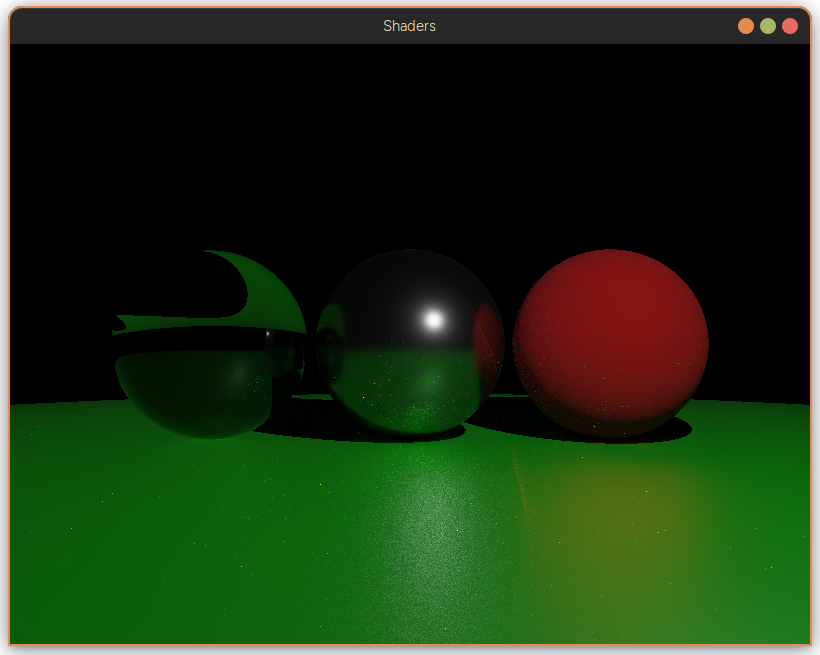
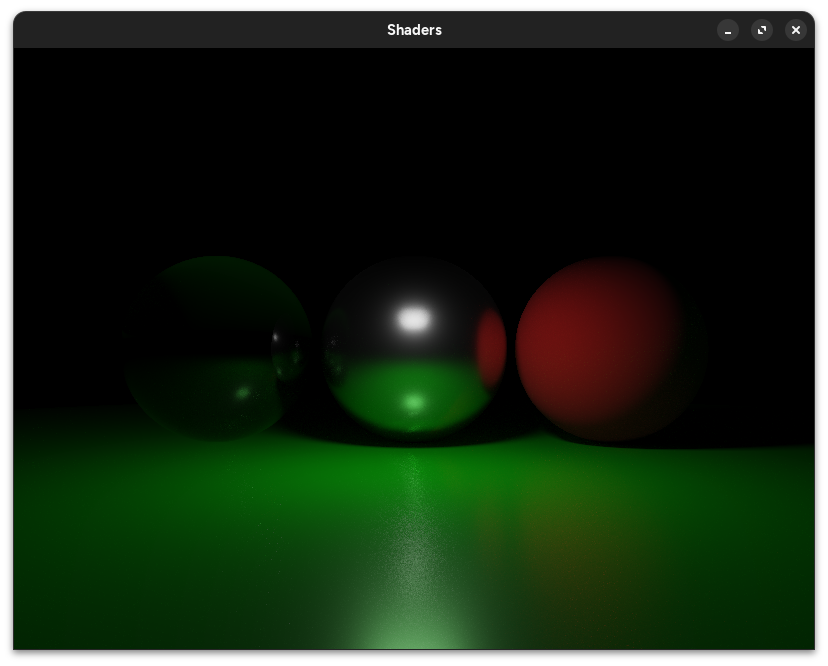
updated README

diff --git a/README.md b/README.md
@@ -1,8 +1,9 @@
 # Helios
 A GPU-accelerated path tracer built in C++ using OpenGL compute shaders and GLSL for rendering, with ImGui for live scene/material editing.
 
-![Three-sphere scene: glass, metal, and diffuse materials](assets/three.png)
 ![Standard Cornell box](assets/cornell.png)
+![Three-sphere scene: glass, metal, and diffuse materials](assets/three.png)
+![obj mesh rendering](assets/obj_pine.png)
 
 ## Build & Run
 
@@ -18,11 +19,19 @@ cmake --build build
 
 ## Overview
 
-This project is an implementation-focused exploration of GPU-based path tracing, covering ray-object intersection (spheres and triangle meshes), physically-based materials, multi-bounce global illumination, and a CPU-to-GPU scene pipeline. Rendering happens entirely on the GPU via a compute shader, with the CPU responsible for scene authoring, buffer uploads, and live material editing through an ImGui interface. Frames are progressively accumulated and displayed in real time.
+Helios is a path tracer built around an OpenGL compute shader. The CPU handles scene setup and data management, while ray generation, intersection, shading, and accumulation run on the GPU.
 
+The renderer supports spheres and indexed triangle meshes. Triangle meshes can be accelerated using a Bounding Volume Hierarchy (BVH), reducing the amount of geometry that needs to be tested for each ray.
+
+Rendering is progressively accumulated over multiple frames. This makes it possible to render multiple samples per pixel over time rather than having to finish the entire path tracing process in a single frame.
 
 ## Features
 
-The renderer supports sphere and indexed triangle mesh geometry, with a physically-based material model covering albedo, metallic, roughness, IOR, transmission, and emission. Materials are shaded using a Cook-Torrance specular BRDF (GGX distribution, Smith geometry term, Schlick Fresnel) combined with Lambertian diffuse, stochastically sampled and mixture-weighted for correct multi-bounce Monte Carlo integration.
+The renderer supports sphere and indexed triangle mesh geometry. Triangle meshes can be accelerated using a Bounding Volume Hierarchy (BVH) for faster ray intersection.
 
-Dielectric materials support physically-based reflection and refraction, including total internal reflection. Direct lighting is computed via explicit shadow rays, and scene data — geometry and materials alike — is authored on the CPU and uploaded to the GPU through a verified, `std430`-compliant buffer pipeline. Materials can be edited live through an ImGui interface, with only changed data re-uploaded to the GPU each frame.
+Materials support albedo, metallic, roughness, IOR, transmission, and emission. The renderer uses a Cook-Torrance BRDF with GGX, Smith geometry, and Schlick Fresnel for specular reflection, along with Lambertian diffuse shading.
+
+Dielectric materials support reflection and refraction, including total internal reflection. Direct lighting is handled using shadow rays, while additional light transport is handled through multiple path bounces.
+
+Scene and material data are stored in GPU buffers using `std430` layouts. Materials can be edited at runtime through ImGui, with changes being uploaded without rebuilding the scene.
+
